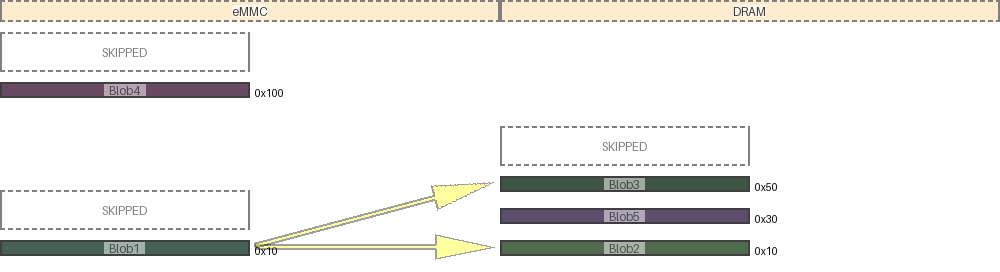
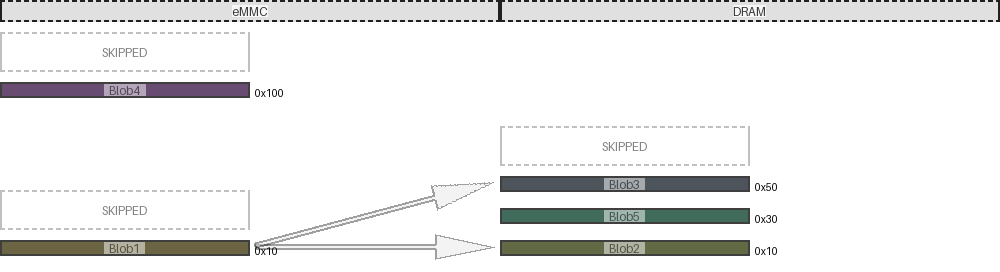
added ColourType to support colour strings and RGB tuples, added link fill colour setting

diff --git a/mm/image.py b/mm/image.py
@@ -13,6 +13,7 @@ import math
 import dataclasses
 
 
+
 @dataclasses.dataclass
 class Point:
     x: float
@@ -93,27 +94,26 @@ class Image():
         else:
             logging.warning("Error trimming image")
    
-    def _pick_random_colour(self) -> Tuple[int, int, int, int]:
+    def _pick_random_colour(self) -> Tuple[int, int, int]:
         """Pick random RGBA colour band values"""
         min_band = int("00", 16)
         max_band = int("44", 16)
         r =random.randint(min_band, max_band)
         g =random.randint(min_band, max_band)
         b =random.randint(min_band, max_band)
-        a =255
-        return (r, g, b, a)
+        return (r, g, b)
 
 @typeguard.typechecked
 class MapNameImage(Image):
     """Wrapper class for PIL.Image.Image object. Represents a MemoryMap sub diagram."""
 
-    def __init__(self, name: str, img_width: int, font_size: int, fill_colour:str, line_colour: str):
+    def __init__(self, name: str, img_width: int, font_size: int, fill_colour: mm.metamodel.ColourType, line_colour: mm.metamodel.ColourType):
 
         super().__init__(name, None)
         
         self._draw(img_width, font_size, fill_colour, line_colour)
 
-    def _draw(self, img_width: int, font_size: int, fill_colour:str, line_colour: str) -> None:
+    def _draw(self, img_width: int, font_size: int, fill_colour: mm.metamodel.ColourType, line_colour: mm.metamodel.ColourType) -> None:
         """Create the image for the region rectangle and its inset name label"""
 
         txt_lbl =  TextLabelImage(self.name, text=self.name, font_size=font_size)
@@ -258,7 +258,7 @@ class MemoryRegionImage(Image):
 @typeguard.typechecked
 class VoidRegionImage(Image):
 
-    def __init__(self, mmap_parent: str, img_width: int, font_size: int, fill_colour:str, line_colour: str):
+    def __init__(self, mmap_parent: str, img_width: int, font_size: int, fill_colour: mm.metamodel.ColourType, line_colour: mm.metamodel.ColourType):
         super().__init__("SKIPPED", mmap_parent)
         
         self.size_as_hex: str = hex(40)
@@ -266,7 +266,7 @@ class VoidRegionImage(Image):
         
         self._draw(img_width, font_size, fill_colour, line_colour)
 
-    def _draw(self, img_width: int, font_size: int, fill_colour:str, line_colour: str):
+    def _draw(self, img_width: int, font_size: int, fill_colour: mm.metamodel.ColourType, line_colour: mm.metamodel.ColourType):
 
         logging.info(self)
 
@@ -291,8 +291,8 @@ class TextLabelImage(Image):
                  parent: str,
                  text: str, 
                  font_size: int, 
-                 font_colour: str = "black", 
-                 fill_colour: Tuple[int, int, int, int] | str = "white",
+                 font_colour: mm.metamodel.ColourType = "black", 
+                 fill_colour: mm.metamodel.ColourType = "white",
                  padding_width: int = 0):
         
 
@@ -347,8 +347,8 @@ class ArrowBlock(Image):
                  head_width: int = 20,
                  tail_len: int = 75, 
                  tail_width: int = 50, 
-                 line: str = "black", 
-                 fill: str = "white",
+                 line: mm.metamodel.ColourType = "black", 
+                 fill: mm.metamodel.ColourType = "white",
                  show_outline: bool = False):
         """
         src: coords for start of arrow
@@ -455,8 +455,8 @@ class DashedRectangle(Image):
             w: int, 
             h: int, 
             dash: Tuple[int, int, int, int],
-            fill: Tuple[int, int, int, int] | str, 
-            line: str = "black", 
+            fill: mm.metamodel.ColourType, 
+            line: mm.metamodel.ColourType = "black", 
             stroke: float = 1):
         """dash is 4-tuple of top, right, bottom, left edges, set to 0 or 1 to disable.
         Fill is an RGBA tuple or colour string"""

diff --git a/mm/metamodel.py b/mm/metamodel.py
@@ -2,11 +2,13 @@
 import pydantic
 import pathlib
 import json
-from typing import Tuple, Literal
+from typing import Tuple, Literal, Union
 from typing_extensions import Annotated
 import logging
 import enum
 import decimal
+
+ColourType = Union[str | Tuple[int, int, int]]
 
 class ConfigParent(pydantic.BaseModel):
     model_config = pydantic.ConfigDict(
@@ -109,24 +111,24 @@ class Diagram(ConfigParent):
         pydantic.Field(30, description="The percentage width of the diagram legend")
     ]
     bgcolour: Annotated[
-        str,
+        ColourType,
         pydantic.Field("white", description="The background colour used for the diagram")
     ] 
     void_fill_colour: Annotated[
-        str,
+        ColourType,
         pydantic.Field("white", description="Fill colour for the void region blocks")
     ]
     void_line_colour: Annotated[
-        str,
-        pydantic.Field("grey", description="Line colour for the void region blocks")
+        ColourType,
+        pydantic.Field((192,192,192), description="Line colour for the void region blocks")
     ]
     title_fill_colour: Annotated[
-        str,
-        pydantic.Field("blanchedalmond", description="Fill colour for the memory region title blocks")
+        ColourType,
+        pydantic.Field((224,224,224), description="Fill colour for the memory region title blocks")
     ]
     title_line_colour: Annotated[
-        str,
-        pydantic.Field("grey", description="Line colour for the emory region title blocks")
+        ColourType,
+        pydantic.Field((32,32,32), description="Line colour for the emory region title blocks")
     ]
     memory_maps: Annotated[
         dict[str, MemoryMap],
@@ -143,6 +145,10 @@ class Diagram(ConfigParent):
     link_alpha: Annotated[
         int,
         pydantic.Field(96, description="Transparency value for all link arrow images.", gt=-1, lt=256)
+    ]
+    link_fill_colour: Annotated[
+        ColourType,
+        pydantic.Field((224,224,224), description="Line colour for the emory region title blocks")
     ]
 
     @pydantic.field_validator("name")

diff --git a/mm/diagram.py b/mm/diagram.py
@@ -291,7 +291,7 @@ class Diagram:
                                         head_width=25,
                                         tail_len=75,
                                         tail_width=20,
-                                        fill="yellow"
+                                        fill=Diagram.model.link_fill_colour
                                     )
                                     final_diagram_img = arrow.overlay(final_diagram_img, mm.image.Point(arrow.pos.x, arrow.pos.y), Diagram.model.link_alpha)
      

diff --git a/doc/example/test_generate_doc_example_three_maps.md b/doc/example/test_generate_doc_example_three_maps.md
@@ -1,10 +1,10 @@
 ![memory map diagram](test_generate_doc_example_three_maps_cropped.png)
 |name|origin|size|free Space|collisions
 |:-|:-|:-|:-|:-|
-|<span style='color:(22, 21, 50, 255)'>Blob5</span>|0x78|0x20|0x350|{}|
-|<span style='color:(37, 26, 22, 255)'>Blob3</span>|0x50|0x20|0x8|{}|
-|<span style='color:(2, 41, 38, 255)'>Blob7</span>|0x50|0x20|0x378|{}|
-|<span style='color:(45, 53, 33, 255)'>Blob4</span>|0x28|0x20|0x8|{}|
-|<span style='color:(26, 44, 56, 255)'>Blob6</span>|0xa|0x3c|0xa|{}|
-|<span style='color:(66, 25, 5, 255)'>Blob1</span>|0x0|0x20|0x3c8|{}|
-|<span style='color:(35, 25, 10, 255)'>Blob2</span>|0x0|0x20|0x8|{}|
+|<span style='color:(57, 20, 4)'>Blob5</span>|0x78|0x20|0x350|{}|
+|<span style='color:(54, 23, 42)'>Blob3</span>|0x50|0x20|0x8|{}|
+|<span style='color:(40, 39, 17)'>Blob7</span>|0x50|0x20|0x378|{}|
+|<span style='color:(5, 35, 6)'>Blob4</span>|0x28|0x20|0x8|{}|
+|<span style='color:(40, 60, 13)'>Blob6</span>|0xa|0x3c|0xa|{}|
+|<span style='color:(56, 48, 6)'>Blob1</span>|0x0|0x20|0x3c8|{}|
+|<span style='color:(13, 29, 29)'>Blob2</span>|0x0|0x20|0x8|{}|

diff --git a/doc/example/test_generate_doc_example_two_maps.md b/doc/example/test_generate_doc_example_two_maps.md
@@ -1,8 +1,8 @@
 ![memory map diagram](test_generate_doc_example_two_maps_cropped.png)
 |name|origin|size|free Space|collisions
 |:-|:-|:-|:-|:-|
-|<span style='color:(56, 14, 48, 255)'>Blob4</span>|0x100|0x10|0x2d8|{}|
-|<span style='color:(0, 29, 5, 255)'>Blob3</span>|0x50|0x10|0x388|{}|
-|<span style='color:(40, 20, 61, 255)'>Blob5</span>|0x30|0x10|0x10|{}|
-|<span style='color:(8, 47, 29, 255)'>Blob1</span>|0x10|0x10|0xe0|{}|
-|<span style='color:(21, 57, 18, 255)'>Blob2</span>|0x10|0x10|0x10|{}|
+|<span style='color:(54, 17, 68)'>Blob4</span>|0x100|0x10|0x2d8|{}|
+|<span style='color:(19, 28, 38)'>Blob3</span>|0x50|0x10|0x388|{}|
+|<span style='color:(3, 58, 37)'>Blob5</span>|0x30|0x10|0x10|{}|
+|<span style='color:(59, 51, 7)'>Blob1</span>|0x10|0x10|0xe0|{}|
+|<span style='color:(46, 57, 8)'>Blob2</span>|0x10|0x10|0x10|{}|

diff --git a/doc/example/test_generate_doc_example_collisions.md b/doc/example/test_generate_doc_example_collisions.md
@@ -1,6 +1,6 @@
 ![memory map diagram](test_generate_doc_example_collisions_cropped.png)
 |name|origin|size|free Space|collisions
 |:-|:-|:-|:-|:-|
-|<span style='color:(16, 41, 21, 255)'>dtb</span>|0x90|0x30|0x328|{'rootfs': '0x90'}|
-|<span style='color:(33, 22, 21, 255)'>rootfs</span>|0x50|0x50|-0x10|{'kernel': '0x50', 'dtb': '0x90'}|
-|<span style='color:(36, 43, 13, 255)'>kernel</span>|0x10|0x60|-0x20|{'rootfs': '0x50'}|
+|<span style='color:(38, 52, 35)'>dtb</span>|0x90|0x30|0x328|{'rootfs': '0x90'}|
+|<span style='color:(35, 54, 1)'>rootfs</span>|0x50|0x50|-0x10|{'kernel': '0x50', 'dtb': '0x90'}|
+|<span style='color:(26, 52, 68)'>kernel</span>|0x10|0x60|-0x20|{'rootfs': '0x50'}|

diff --git a/doc/example/test_generate_doc_example_normal.md b/doc/example/test_generate_doc_example_normal.md
@@ -1,6 +1,6 @@
 ![memory map diagram](test_generate_doc_example_normal_cropped.png)
 |name|origin|size|free Space|collisions
 |:-|:-|:-|:-|:-|
-|<span style='color:(28, 39, 64, 255)'>dtb</span>|0x190|0x30|0x228|{}|
-|<span style='color:(5, 32, 67, 255)'>rootfs</span>|0x50|0x30|0x110|{}|
-|<span style='color:(33, 46, 5, 255)'>kernel</span>|0x10|0x30|0x10|{}|
+|<span style='color:(32, 59, 22)'>dtb</span>|0x190|0x30|0x228|{}|
+|<span style='color:(65, 30, 40)'>rootfs</span>|0x50|0x30|0x110|{}|
+|<span style='color:(63, 33, 16)'>kernel</span>|0x10|0x30|0x10|{}|
